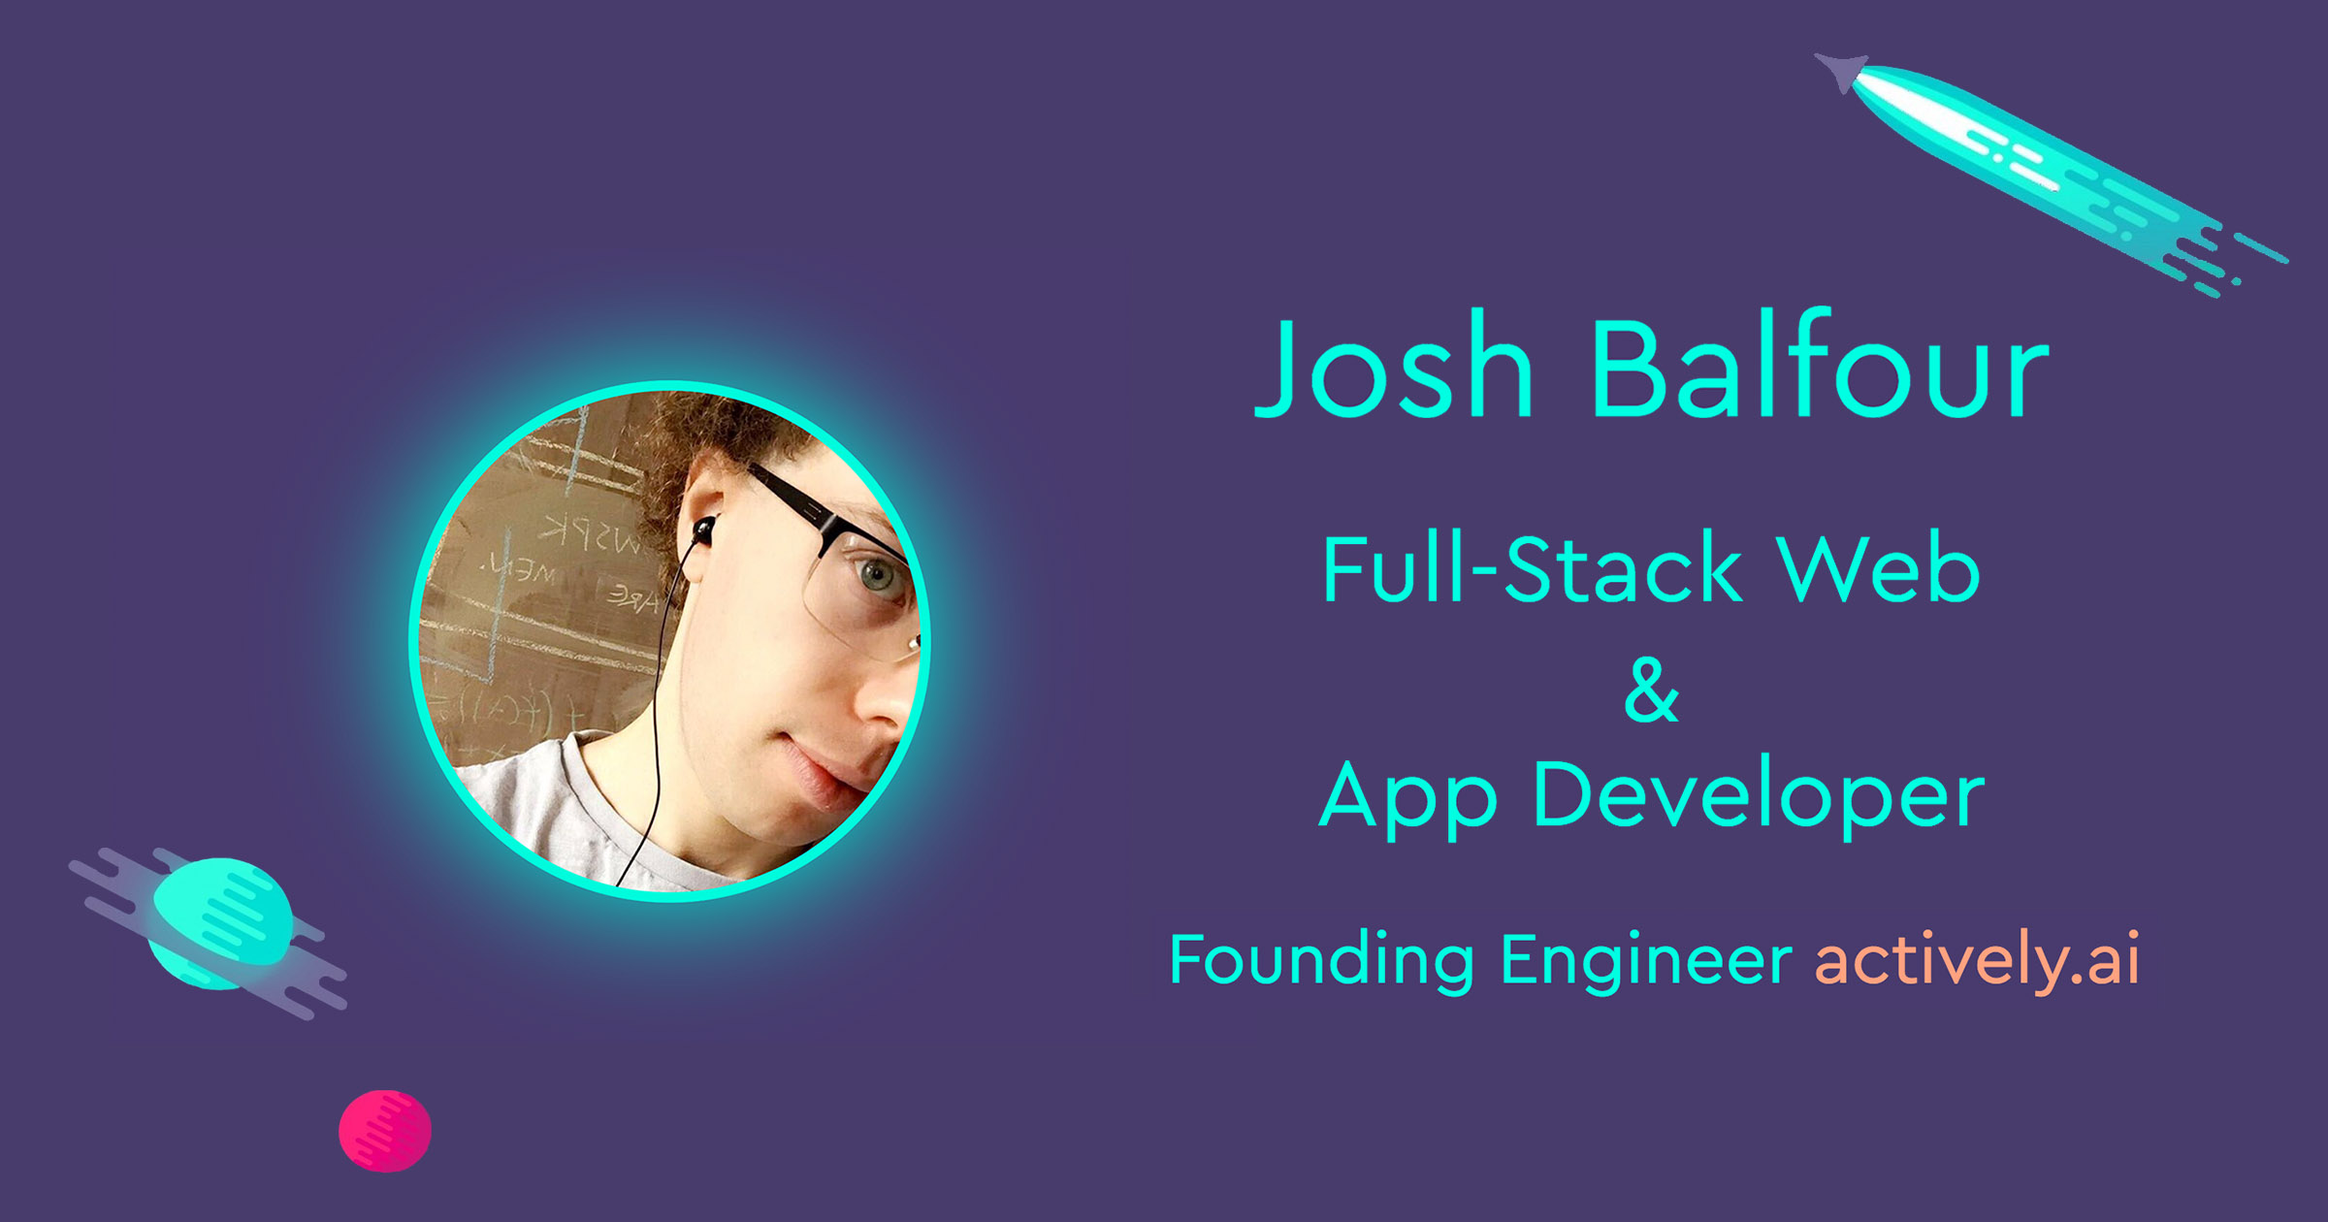
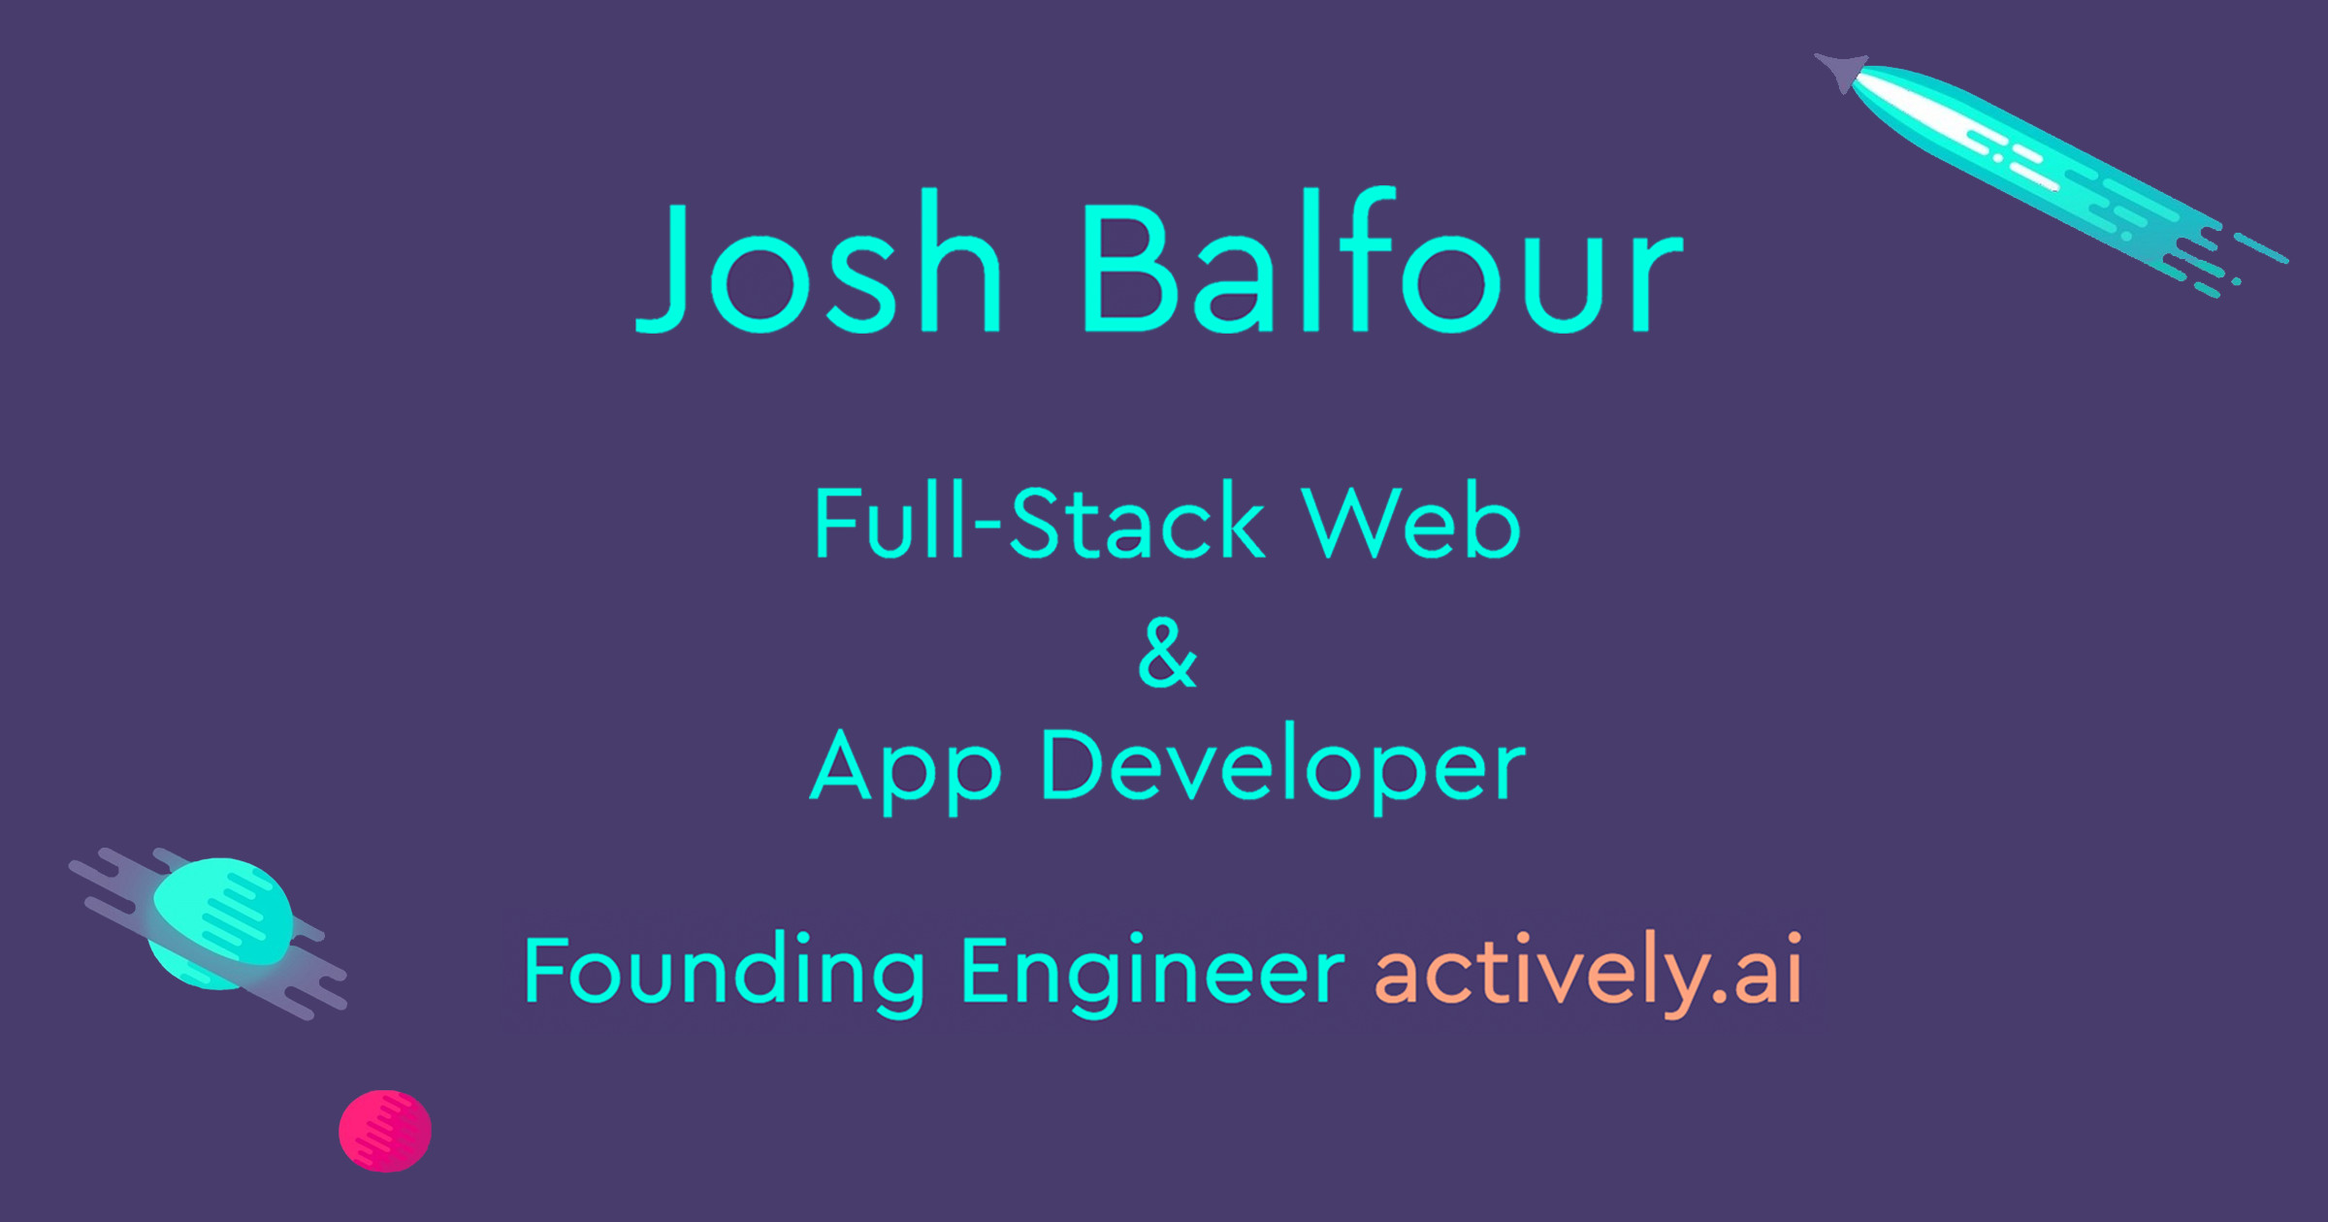
cleanup & analytics & new share image

diff --git a/css/fonts.css b/css/fonts.css
@@ -1,108 +1,108 @@
 @font-face {
-    font-family: 'Cera';
-    src: url('../fonts/cera/cera-black-webfont.eot');
-    src: url('../fonts/cera/cera-black-webfont.eot?#iefix') format('embedded-opentype'),
-         url('../fonts/cera/cera-black-webfont.woff2') format('woff2'),
-         url('../fonts/cera/cera-black-webfont.woff') format('woff'),
-         url('../fonts/cera/cera-black-webfont.ttf') format('truetype'),
-         url('../fonts/cera/cera-black-webfont.svg#cerablack') format('svg');
-    font-weight: 900;
-    font-style: normal;
+	font-family: 'Cera';
+	src: url('../fonts/cera/cera-black-webfont.eot');
+	src: url('../fonts/cera/cera-black-webfont.eot?#iefix') format('embedded-opentype'),
+		 url('../fonts/cera/cera-black-webfont.woff2') format('woff2'),
+		 url('../fonts/cera/cera-black-webfont.woff') format('woff'),
+		 url('../fonts/cera/cera-black-webfont.ttf') format('truetype'),
+		 url('../fonts/cera/cera-black-webfont.svg#cerablack') format('svg');
+	font-weight: 900;
+	font-style: normal;
 }
 
 @font-face {
-    font-family: 'Cera';
-    src: url('../fonts/cera/cera-blackitalic-webfont.eot');
-    src: url('../fonts/cera/cera-blackitalic-webfont.eot?#iefix') format('embedded-opentype'),
-         url('../fonts/cera/cera-blackitalic-webfont.woff2') format('woff2'),
-         url('../fonts/cera/cera-blackitalic-webfont.woff') format('woff'),
-         url('../fonts/cera/cera-blackitalic-webfont.ttf') format('truetype'),
-         url('../fonts/cera/cera-blackitalic-webfont.svg#cerablack_italic') format('svg');
-    font-weight: 900;
-    font-style: italic;
+	font-family: 'Cera';
+	src: url('../fonts/cera/cera-blackitalic-webfont.eot');
+	src: url('../fonts/cera/cera-blackitalic-webfont.eot?#iefix') format('embedded-opentype'),
+		 url('../fonts/cera/cera-blackitalic-webfont.woff2') format('woff2'),
+		 url('../fonts/cera/cera-blackitalic-webfont.woff') format('woff'),
+		 url('../fonts/cera/cera-blackitalic-webfont.ttf') format('truetype'),
+		 url('../fonts/cera/cera-blackitalic-webfont.svg#cerablack_italic') format('svg');
+	font-weight: 900;
+	font-style: italic;
 }
 
 @font-face {
-    font-family: 'Cera';
-    src: url('../fonts/cera/cera-bold-webfont.eot');
-    src: url('../fonts/cera/cera-bold-webfont.eot?#iefix') format('embedded-opentype'),
-         url('../fonts/cera/cera-bold-webfont.woff2') format('woff2'),
-         url('../fonts/cera/cera-bold-webfont.woff') format('woff'),
-         url('../fonts/cera/cera-bold-webfont.ttf') format('truetype'),
-         url('../fonts/cera/cera-bold-webfont.svg#cerabold') format('svg');
-    font-weight: 700;
-    font-style: normal;
+	font-family: 'Cera';
+	src: url('../fonts/cera/cera-bold-webfont.eot');
+	src: url('../fonts/cera/cera-bold-webfont.eot?#iefix') format('embedded-opentype'),
+		 url('../fonts/cera/cera-bold-webfont.woff2') format('woff2'),
+		 url('../fonts/cera/cera-bold-webfont.woff') format('woff'),
+		 url('../fonts/cera/cera-bold-webfont.ttf') format('truetype'),
+		 url('../fonts/cera/cera-bold-webfont.svg#cerabold') format('svg');
+	font-weight: 700;
+	font-style: normal;
 }
 
 @font-face {
-    font-family: 'Cera';
-    src: url('../fonts/cera/cera-bolditalic-webfont.eot');
-    src: url('../fonts/cera/cera-bolditalic-webfont.eot?#iefix') format('embedded-opentype'),
-         url('../fonts/cera/cera-bolditalic-webfont.woff2') format('woff2'),
-         url('../fonts/cera/cera-bolditalic-webfont.woff') format('woff'),
-         url('../fonts/cera/cera-bolditalic-webfont.ttf') format('truetype'),
-         url('../fonts/cera/cera-bolditalic-webfont.svg#cerabold_italic') format('svg');
-    font-weight: 700;
-    font-style: italic;
+	font-family: 'Cera';
+	src: url('../fonts/cera/cera-bolditalic-webfont.eot');
+	src: url('../fonts/cera/cera-bolditalic-webfont.eot?#iefix') format('embedded-opentype'),
+		 url('../fonts/cera/cera-bolditalic-webfont.woff2') format('woff2'),
+		 url('../fonts/cera/cera-bolditalic-webfont.woff') format('woff'),
+		 url('../fonts/cera/cera-bolditalic-webfont.ttf') format('truetype'),
+		 url('../fonts/cera/cera-bolditalic-webfont.svg#cerabold_italic') format('svg');
+	font-weight: 700;
+	font-style: italic;
 }
 
 @font-face {
-    font-family: 'Cera';
-    src: url('../fonts/cera/cera-medium-webfont.eot');
-    src: url('../fonts/cera/cera-medium-webfont.eot?#iefix') format('embedded-opentype'),
-         url('../fonts/cera/cera-medium-webfont.woff2') format('woff2'),
-         url('../fonts/cera/cera-medium-webfont.woff') format('woff'),
-         url('../fonts/cera/cera-medium-webfont.ttf') format('truetype'),
-         url('../fonts/cera/cera-medium-webfont.svg#ceramedium') format('svg');
-    font-weight: 500;
-    font-style: normal;
+	font-family: 'Cera';
+	src: url('../fonts/cera/cera-medium-webfont.eot');
+	src: url('../fonts/cera/cera-medium-webfont.eot?#iefix') format('embedded-opentype'),
+		 url('../fonts/cera/cera-medium-webfont.woff2') format('woff2'),
+		 url('../fonts/cera/cera-medium-webfont.woff') format('woff'),
+		 url('../fonts/cera/cera-medium-webfont.ttf') format('truetype'),
+		 url('../fonts/cera/cera-medium-webfont.svg#ceramedium') format('svg');
+	font-weight: 500;
+	font-style: normal;
 }
 
 @font-face {
-    font-family: 'Cera';
-    src: url('../fonts/cera/cera-mediumitalic-webfont.eot');
-    src: url('../fonts/cera/cera-mediumitalic-webfont.eot?#iefix') format('embedded-opentype'),
-         url('../fonts/cera/cera-mediumitalic-webfont.woff2') format('woff2'),
-         url('../fonts/cera/cera-mediumitalic-webfont.woff') format('woff'),
-         url('../fonts/cera/cera-mediumitalic-webfont.ttf') format('truetype'),
-         url('../fonts/cera/cera-mediumitalic-webfont.svg#ceramedium_italic') format('svg');
-    font-weight: 500;
-    font-style: italic;
+	font-family: 'Cera';
+	src: url('../fonts/cera/cera-mediumitalic-webfont.eot');
+	src: url('../fonts/cera/cera-mediumitalic-webfont.eot?#iefix') format('embedded-opentype'),
+		 url('../fonts/cera/cera-mediumitalic-webfont.woff2') format('woff2'),
+		 url('../fonts/cera/cera-mediumitalic-webfont.woff') format('woff'),
+		 url('../fonts/cera/cera-mediumitalic-webfont.ttf') format('truetype'),
+		 url('../fonts/cera/cera-mediumitalic-webfont.svg#ceramedium_italic') format('svg');
+	font-weight: 500;
+	font-style: italic;
 }
 
 @font-face {
-    font-family: 'Cera';
-    src: url('../fonts/cera/cera-regular-webfont.eot');
-    src: url('../fonts/cera/cera-regular-webfont.eot?#iefix') format('embedded-opentype'),
-         url('../fonts/cera/cera-regular-webfont.woff2') format('woff2'),
-         url('../fonts/cera/cera-regular-webfont.woff') format('woff'),
-         url('../fonts/cera/cera-regular-webfont.ttf') format('truetype'),
-         url('../fonts/cera/cera-regular-webfont.svg#ceraregular') format('svg');
-    font-weight: 400;
-    font-style: normal;
+	font-family: 'Cera';
+	src: url('../fonts/cera/cera-regular-webfont.eot');
+	src: url('../fonts/cera/cera-regular-webfont.eot?#iefix') format('embedded-opentype'),
+		 url('../fonts/cera/cera-regular-webfont.woff2') format('woff2'),
+		 url('../fonts/cera/cera-regular-webfont.woff') format('woff'),
+		 url('../fonts/cera/cera-regular-webfont.ttf') format('truetype'),
+		 url('../fonts/cera/cera-regular-webfont.svg#ceraregular') format('svg');
+	font-weight: 400;
+	font-style: normal;
 }
 
 @font-face {
-    font-family: 'Cera';
-    src: url('../fonts/cera/cera-regularitalic-webfont.eot');
-    src: url('../fonts/cera/cera-regularitalic-webfont.eot?#iefix') format('embedded-opentype'),
-         url('../fonts/cera/cera-regularitalic-webfont.woff2') format('woff2'),
-         url('../fonts/cera/cera-regularitalic-webfont.woff') format('woff'),
-         url('../fonts/cera/cera-regularitalic-webfont.ttf') format('truetype'),
-         url('../fonts/cera/cera-regularitalic-webfont.svg#ceraregular') format('svg');
-    font-weight: 400;
-    font-style: italic;
+	font-family: 'Cera';
+	src: url('../fonts/cera/cera-regularitalic-webfont.eot');
+	src: url('../fonts/cera/cera-regularitalic-webfont.eot?#iefix') format('embedded-opentype'),
+		 url('../fonts/cera/cera-regularitalic-webfont.woff2') format('woff2'),
+		 url('../fonts/cera/cera-regularitalic-webfont.woff') format('woff'),
+		 url('../fonts/cera/cera-regularitalic-webfont.ttf') format('truetype'),
+		 url('../fonts/cera/cera-regularitalic-webfont.svg#ceraregular') format('svg');
+	font-weight: 400;
+	font-style: italic;
 }
 
 @font-face {
-    font-family: 'Cera';
-    src: url('../fonts/cera/cera-light-webfont.eot');
-    src: url('../fonts/cera/cera-light-webfont.eot?#iefix') format('embedded-opentype'),
-         url('../fonts/cera/cera-light-webfont.woff2') format('woff2'),
-         url('../fonts/cera/cera-light-webfont.woff') format('woff'),
-         url('../fonts/cera/cera-light-webfont.ttf') format('truetype'),
-         url('../fonts/cera/cera-light-webfont.svg#ceralight') format('svg');
-    font-weight: 200;
-    font-style: normal;
+	font-family: 'Cera';
+	src: url('../fonts/cera/cera-light-webfont.eot');
+	src: url('../fonts/cera/cera-light-webfont.eot?#iefix') format('embedded-opentype'),
+		 url('../fonts/cera/cera-light-webfont.woff2') format('woff2'),
+		 url('../fonts/cera/cera-light-webfont.woff') format('woff'),
+		 url('../fonts/cera/cera-light-webfont.ttf') format('truetype'),
+		 url('../fonts/cera/cera-light-webfont.svg#ceralight') format('svg');
+	font-weight: 200;
+	font-style: normal;
 }
 

diff --git a/index.html b/index.html
@@ -12,7 +12,9 @@
 	<link rel="mask-icon" href="/safari-pinned-tab.svg" color="#cb1d79">
 	<meta name="theme-color" content="#ffffff">
 
-	<meta property="og:image" content="/og-image.jpg">
+	<meta property="og:type" content="website" />
+	<meta property="fb:app_id" content="779129442269021" />
+	<meta property="og:image" content="https://joshbalfour.co.uk/og-image.jpg">
 	<meta property="og:image:height" content="1257">
 	<meta property="og:image:width" content="2400">
 	<meta property="og:description" content="Full-Stack Web &amp; App Developer &middot; Founding Engineer actively.ai">
@@ -39,19 +41,19 @@
 				<div class="img-me"></div>
 				<h1>Josh Balfour</h1>
 				<h2>Full-Stack Web  &amp;  App Developer</h2>
-				<h4>Founding Engineer <a href="https://actively.ai">actively.ai</a></h4>
+				<h4>Founding Engineer <a target="_blank" href="https://actively.ai">actively.ai</a></h4>
 				<h4>Shoreditch, London <span class="dot">·</span> Brooklyn, NY</h4>
 				<h2 class="col-12 col-md-9 mx-auto links">
-					<a class="social-link primary" href="https://twitter.com/intent/user?screen_name=joshbal4">
+					<a target="_blank" class="social-link primary" href="https://twitter.com/joshbal4">
 						<i class="fa fa-twitter" aria-hidden="true"></i>
 					</a>
-					<a class="social-link primary" href="https://www.github.com/joshbalfour">
+					<a target="_blank" class="social-link primary" href="https://www.github.com/joshbalfour">
 						<i class="fa fa-github" aria-hidden="true"></i>
 					</a>
-					<a class="social-link primary" href="https://www.linkedin.com/profile/view?id=167118671">
+					<a target="_blank" class="social-link primary" href="https://www.linkedin.com/profile/view?id=167118671">
 						<i class="fa fa-linkedin" aria-hidden="true"></i>
 					</a>
-					<a class="social-link primary" href="mailto:josh@joshbalfour.co.uk">
+					<a target="_blank" class="social-link primary" href="mailto:josh@joshbalfour.co.uk">
 						<i class="fa fa-envelope-o" aria-hidden="true"></i>
 					</a>
 				</h2>
@@ -96,10 +98,10 @@
 						<p>Actively is in active development, and launching later this year.</p>
 						<p>Featured on:</p>
 						<ul>
-							<li><a href="https://www.producthunt.com/posts/actively">ProductHunt</a></li>
-							<li><a href="https://betalist.com/startups/actively">BetaList</a></li>
+							<li><a target="_blank" href="https://www.producthunt.com/posts/actively">ProductHunt</a></li>
+							<li><a target="_blank" href="https://betalist.com/startups/actively">BetaList</a></li>
 						</ul>
-						<a href="https://actively.ai" class="btn btn-lg">Check it out</a>
+						<a target="_blank" href="https://actively.ai" class="btn btn-lg">Check it out</a>
 					</div>
 					<div class="col-6 mx-auto image">
 						<img class="actively-iphone" src="img/actively-iphone.png" />
@@ -144,7 +146,7 @@
 							<li>Ladbible</li>
 							<li>BBC (tv and online)</li>
 						</ul>
-						<a href="https://ge2017.com" class="btn btn-lg">Check it out</a>
+						<a target="_blank" href="https://ge2017.com" class="btn btn-lg">Check it out</a>
 					</div>
 					<div class="col-6 mx-auto image">
 						<img class="ge2017-iphone" src="img/ge2017-iphone.png" />
@@ -215,16 +217,16 @@
 				<div class="row">
 					<div class="col-12 col-md-6 text">
 						<p>CorbynRun is a satirical game created in 3 weeks and released 2 weeks before the 2017 General Election.</p>
-						<p>It's available on the iOS and android app stores, and <a class="no-highlight" href="https://corbynrun.com">corbynrun.com</a>.</p>
+						<p>It's available on the iOS and android app stores, and <a target="_blank" class="no-highlight" href="https://corbynrun.com">corbynrun.com</a>.</p>
 						<p>We had 8 months total worldwide game-time and reached over 1.6 million people in the 2 weeks leading up to the election.</p>
 						<p>We had TV and news crews turn up at the house and places of work. It was crazy.</p>
 						<p>Covered by:</p>
 						<ul>
-							<li><a href="https://www.buzzfeed.com/jimwaterson/theres-now-a-jeremy-corbyn-computer-game">Buzzfeed</a></li>
-							<li><a href="https://www.theguardian.com/politics/2017/jun/06/democracy-theres-an-app-for-that-the-tech-upstarts-trying-to-hack-british-politics">The Guardian (print and online)</a></li>
-							<li><a href="http://www.bbc.co.uk/iplayer/episode/b08sxhq8/daily-politics-30052017?t=29m50s">BBC (tv and online)</a></li>
+							<li><a target="_blank" href="https://www.buzzfeed.com/jimwaterson/theres-now-a-jeremy-corbyn-computer-game">Buzzfeed</a></li>
+							<li><a target="_blank" href="https://www.theguardian.com/politics/2017/jun/06/democracy-theres-an-app-for-that-the-tech-upstarts-trying-to-hack-british-politics">The Guardian (print and online)</a></li>
+							<li><a target="_blank" href="http://www.bbc.co.uk/iplayer/episode/b08sxhq8/daily-politics-30052017?t=29m50s">BBC (tv and online)</a></li>
 						</ul>
-						<a href="https://corbynrun.com" class="btn btn-lg">Check it out</a>
+						<a target="_blank" href="https://corbynrun.com" class="btn btn-lg">Check it out</a>
 					</div>
 					<div class="col-12 col-md-6 image">
 						<img class="corbynrun-imac" src="img/corbynrun-imac.jpg" />
@@ -236,16 +238,16 @@
 	</div>
 	<footer class="footer">
 		<h2 class="col-12 col-md-9 mx-auto links">
-			<a class="social-link secondary" href="https://twitter.com/intent/user?screen_name=joshbal4">
+			<a target="_blank" class="social-link secondary" href="https://twitter.com/intent/user?screen_name=joshbal4">
 				<i class="fa fa-twitter" aria-hidden="true"></i>
 			</a>
-			<a class="social-link secondary" href="https://www.github.com/joshbalfour">
+			<a target="_blank" class="social-link secondary" href="https://www.github.com/joshbalfour">
 				<i class="fa fa-github" aria-hidden="true"></i>
 			</a>
-			<a class="social-link secondary" href="https://www.linkedin.com/profile/view?id=167118671">
+			<a target="_blank" class="social-link secondary" href="https://www.linkedin.com/profile/view?id=167118671">
 				<i class="fa fa-linkedin" aria-hidden="true"></i>
 			</a>
-			<a class="social-link secondary" href="mailto:josh@joshbalfour.co.uk">
+			<a target="_blank" class="social-link secondary" href="mailto:josh@joshbalfour.co.uk">
 				<i class="fa fa-envelope-o" aria-hidden="true"></i>
 			</a>
 		</h2>
@@ -256,8 +258,46 @@
 		m=s.getElementsByTagName(o)[0];a.async=1;a.src=g;m.parentNode.insertBefore(a,m)
 		})(window,document,'script','https://www.google-analytics.com/analytics.js','ga');
 
-		ga('create', 'UA-104892271-1', 'auto');
-		ga('send', 'pageview');
+		ga('create', 'UA-104892271-1', 'auto')
+		ga('send', 'pageview')
+
+		window.fbAsyncInit = function() {
+			FB.init({
+				appId      : '779129442269021',
+				cookie     : true,
+				xfbml      : true,
+				version    : 'v2.8'
+			})
+			FB.AppEvents.logPageView()
+		}
+
+		(function(d, s, id){
+			var js, fjs = d.getElementsByTagName(s)[0];
+			if (d.getElementById(id)) {return;}
+			js = d.createElement(s); js.id = id;
+			js.src = "https://connect.facebook.net/en_US/sdk.js";
+			fjs.parentNode.insertBefore(js, fjs);
+		}(document, 'script', 'facebook-jssdk'))
+
+		(function(){
+			var forEach = function (array, callback, scope) {
+				for (var i = 0; i < array.length; i++) {
+					callback.call(scope, i, array[i])
+				}
+			}
+			var onClickHandler = function(){
+				var url = this.href
+				ga('send', 'event', {
+					eventCategory: 'Outbound Link',
+					eventAction: 'click',
+					eventLabel: url,
+				})
+				FB.AppEvents.logEvent('clicked '+url)
+			}
+			forEach(document.querySelectorAll('a'), function (index, ele) {
+				ele.addEventListener("click", onClickHandler)
+			})
+		})()
 	</script>
 </body>
 </html>
